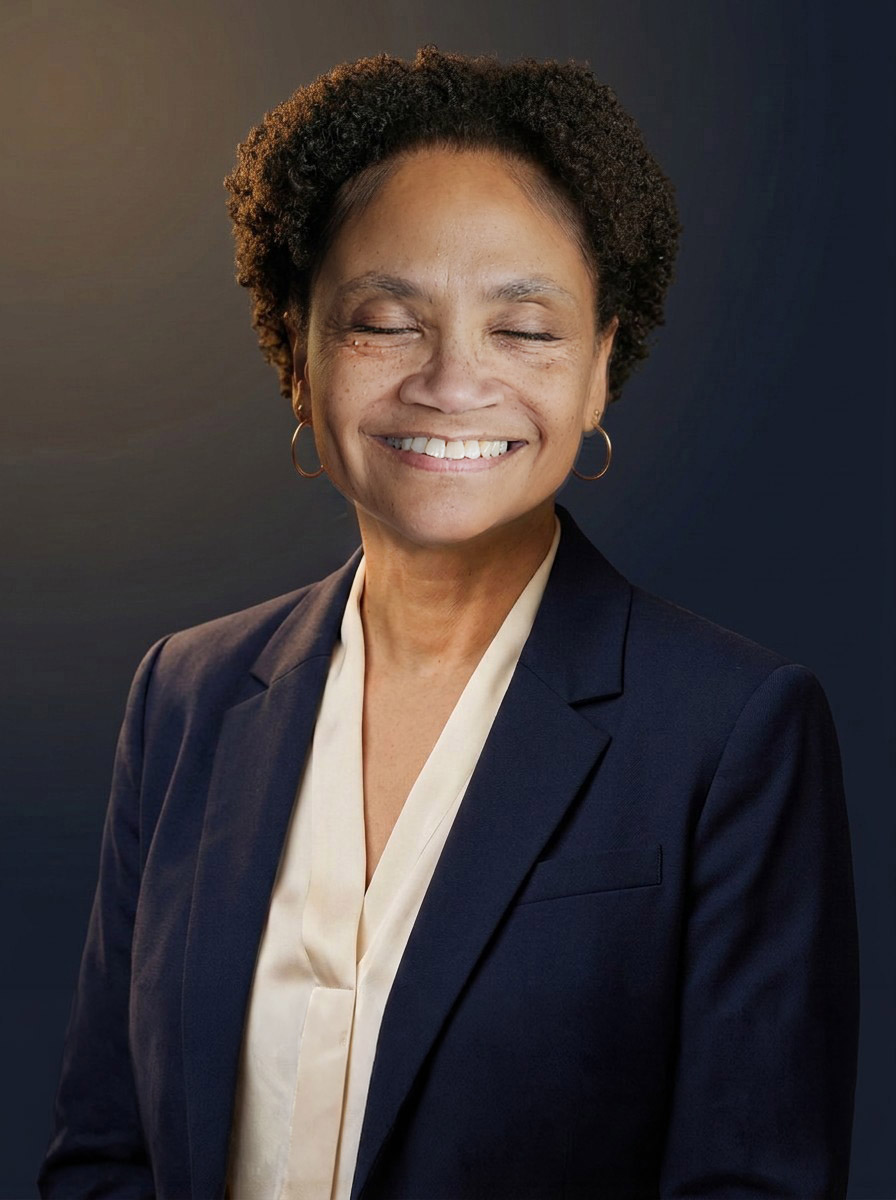
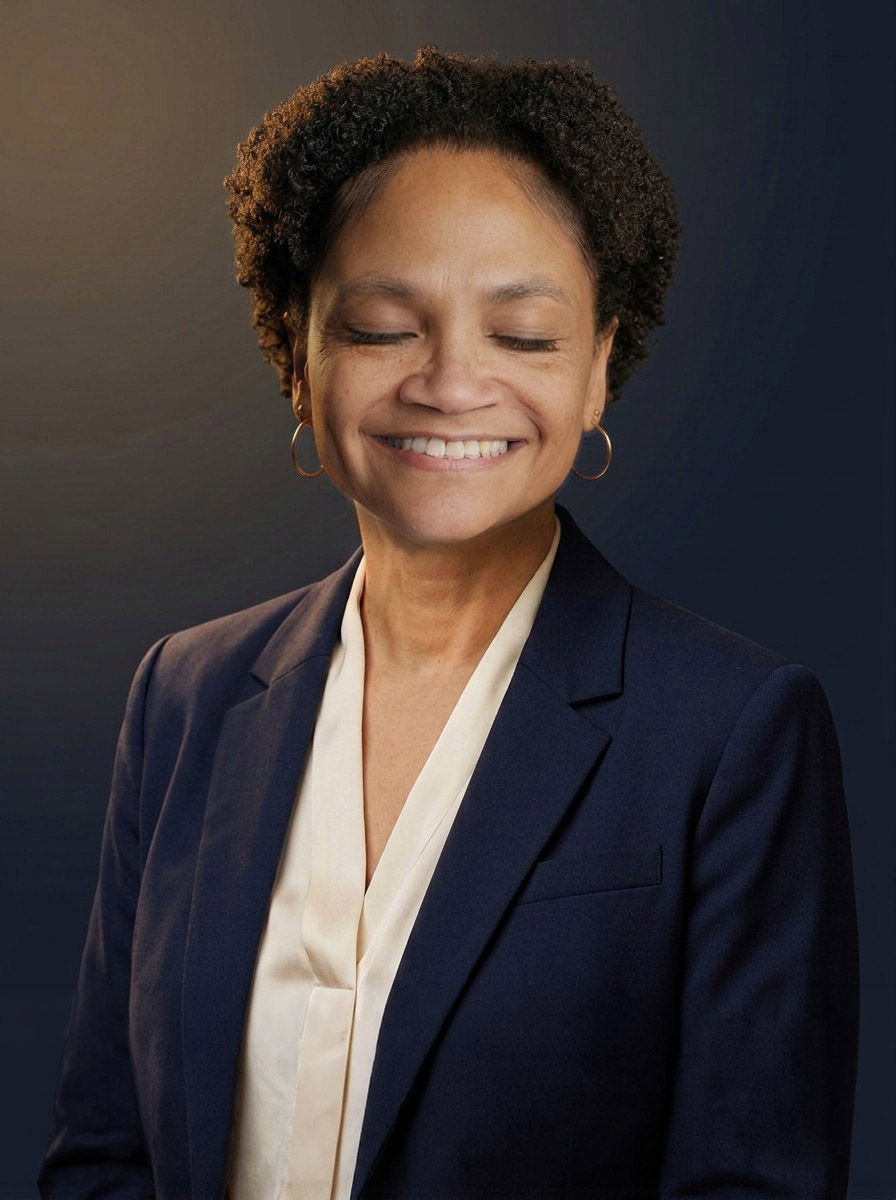
Go live: Joel, Gregory, and Carolyn's agents are public
All three gave explicit approval on 2026-08-23 ("Yes, Joel approved. Thank
you!" / "You have the thumbs up from all of us to go live."). Removed the
private-preview banner and noindex tags, added full site nav, canonical
links, and analytics to all three pages, added clean public URLs
(/joel-king, /gregory-foster, /carolyn-foster) alongside the old /preview/*
links, and linked each of them from their own card on /board. Updated the
consent docs to log the approval while preserving the process that earned
it, since it still governs any future change to their agents. Also swapped
in Carolyn's brightness-corrected portrait pair.

Changed region(s): [[0.3438, 0.2467, 0.6562, 0.4008]]

diff --git a/joel-king-preview.html b/joel-king-preview.html
@@ -3,19 +3,22 @@
 <head>
   <meta charset="UTF-8">
   <meta name="viewport" content="width=device-width, initial-scale=1.0">
-  <meta name="robots" content="noindex, nofollow">
-  <title>Rev. Joel Lawrence King Jr. &middot; Private Preview &middot; Gandhi-King Center</title>
-  <meta name="description" content="Private, unlisted preview. Not for public distribution.">
+  <title>Rev. Joel Lawrence King Jr. &middot; Gandhi-King Center for Nonviolence</title>
+<!-- Google tag (gtag.js) -->
+<script async src="https://www.googletagmanager.com/gtag/js?id=G-PWHY6XC4RP"></script>
+<script>
+  window.dataLayer = window.dataLayer || [];
+  function gtag(){dataLayer.push(arguments);}
+  gtag("js", new Date());
+  gtag("config", "G-PWHY6XC4RP");
+</script>
+  <meta name="description" content="Rev. Joel Lawrence King Jr., President of the Gandhi-King Center and first cousin of Dr. Martin Luther King Jr., in his own words: family oral history, not the textbook version.">
+  <link rel="canonical" href="https://gandhi-king-center-for-nonviolence.org/joel-king">
   <link rel="preconnect" href="https://fonts.googleapis.com">
   <link rel="preconnect" href="https://fonts.gstatic.com" crossorigin>
   <link href="https://fonts.googleapis.com/css2?family=Playfair+Display:wght@500;600;700&family=Crimson+Pro:ital,wght@0,400;0,500;0,600;1,400;1,500&family=Inter:wght@400;500;600&display=swap" rel="stylesheet">
   <link rel="stylesheet" href="/assets/site.css">
   <style>
-    .preview-banner {
-      background: #fdf3e0; border: 1px solid #e3c98a; color: #6b4f10;
-      font-family: 'Inter', sans-serif; font-size: 0.85rem; font-weight: 600;
-      text-align: center; padding: 10px 16px; letter-spacing: 0.02em;
-    }
     .agent-hero { display: grid; grid-template-columns: 280px 1fr; gap: 34px; align-items: center; }
     .agent-portrait {
       position: relative; width: 280px; aspect-ratio: 4 / 5; overflow: hidden;
@@ -52,14 +55,28 @@
 </head>
 <body>
 
-  <div class="preview-banner">PRIVATE PREVIEW &mdash; NOT YET APPROVED FOR PUBLIC USE &mdash; built for Rev. King's own review</div>
-
   <header class="site-header">
     <div class="site-header__inner">
       <a class="site-logo" href="/">
         <span class="site-logo__mark">Gandhi-King Center</span>
         <span class="site-logo__tag">For Nonviolence</span>
       </a>
+      <nav class="site-nav" aria-label="Primary">
+        <a href="/season">Season</a>
+        <a href="/education">Education</a>
+        <a href="/advocacy">Advocacy</a>
+        <a href="/community-building">Community</a>
+        <a href="/outreach">Outreach</a>
+        <a href="/partners">Partners</a>
+        <a href="/archive">Archive</a>
+        <a href="/peace-news">Peace News</a>
+        <a href="/staff">Team</a>
+        <a href="/board" class="is-active">Board</a>
+        <a href="/get-involved">Join</a>
+        <a href="/packages">Packages</a>
+        <a href="/donate" class="nav-donate">Donate</a>
+        <a href="https://emerging-tech-lab.com">ETL Campus</a>
+      </nav>
     </div>
   </header>
 
@@ -101,7 +118,7 @@
         <p class="agent-voicenote" id="agentVoiceNote">He speaks his answers aloud. Turn your sound on.</p>
       </div>
 
-      <p class="agent-disclosure">This is a private, unlisted preview built from Rev. King's own recorded oral history, for his review only. It is not public and not yet approved. Nothing here has been confirmed as his final, approved words.</p>
+      <p class="agent-disclosure">This is Rev. King's own recorded oral history, brought to an interactive conversation, with his knowledge and approval.</p>
 
     </div>
   </section>

diff --git a/carolyn-foster-preview.html b/carolyn-foster-preview.html
@@ -3,19 +3,22 @@
 <head>
   <meta charset="UTF-8">
   <meta name="viewport" content="width=device-width, initial-scale=1.0">
-  <meta name="robots" content="noindex, nofollow">
-  <title>Mrs. Carolyn Foster &middot; Private Preview &middot; Gandhi-King Center</title>
-  <meta name="description" content="Private, unlisted preview. Not for public distribution.">
+  <title>Mrs. Carolyn Foster &middot; Gandhi-King Center for Nonviolence</title>
+<!-- Google tag (gtag.js) -->
+<script async src="https://www.googletagmanager.com/gtag/js?id=G-PWHY6XC4RP"></script>
+<script>
+  window.dataLayer = window.dataLayer || [];
+  function gtag(){dataLayer.push(arguments);}
+  gtag("js", new Date());
+  gtag("config", "G-PWHY6XC4RP");
+</script>
+  <meta name="description" content="Mrs. Carolyn Foster, Executive Director of the Gandhi-King Center, in her own words: her uncle the Tuskegee Airman, her opera-singing mother, and what she has taught her four daughters.">
+  <link rel="canonical" href="https://gandhi-king-center-for-nonviolence.org/carolyn-foster">
   <link rel="preconnect" href="https://fonts.googleapis.com">
   <link rel="preconnect" href="https://fonts.gstatic.com" crossorigin>
   <link href="https://fonts.googleapis.com/css2?family=Playfair+Display:wght@500;600;700&family=Crimson+Pro:ital,wght@0,400;0,500;0,600;1,400;1,500&family=Inter:wght@400;500;600&display=swap" rel="stylesheet">
   <link rel="stylesheet" href="/assets/site.css">
   <style>
-    .preview-banner {
-      background: #fdf3e0; border: 1px solid #e3c98a; color: #6b4f10;
-      font-family: 'Inter', sans-serif; font-size: 0.85rem; font-weight: 600;
-      text-align: center; padding: 10px 16px; letter-spacing: 0.02em;
-    }
     .agent-hero { display: grid; grid-template-columns: 280px 1fr; gap: 34px; align-items: center; }
     .agent-portrait {
       position: relative; width: 280px; aspect-ratio: 4 / 5; overflow: hidden;
@@ -52,14 +55,28 @@
 </head>
 <body>
 
-  <div class="preview-banner">PRIVATE PREVIEW &mdash; NOT YET APPROVED FOR PUBLIC USE &mdash; built for Carolyn's own review</div>
-
   <header class="site-header">
     <div class="site-header__inner">
       <a class="site-logo" href="/">
         <span class="site-logo__mark">Gandhi-King Center</span>
         <span class="site-logo__tag">For Nonviolence</span>
       </a>
+      <nav class="site-nav" aria-label="Primary">
+        <a href="/season">Season</a>
+        <a href="/education">Education</a>
+        <a href="/advocacy">Advocacy</a>
+        <a href="/community-building">Community</a>
+        <a href="/outreach">Outreach</a>
+        <a href="/partners">Partners</a>
+        <a href="/archive">Archive</a>
+        <a href="/peace-news">Peace News</a>
+        <a href="/staff">Team</a>
+        <a href="/board" class="is-active">Board</a>
+        <a href="/get-involved">Join</a>
+        <a href="/packages">Packages</a>
+        <a href="/donate" class="nav-donate">Donate</a>
+        <a href="https://emerging-tech-lab.com">ETL Campus</a>
+      </nav>
     </div>
   </header>
 
@@ -101,7 +118,7 @@
         <p class="agent-voicenote" id="agentVoiceNote">She speaks her answers aloud. Turn your sound on.</p>
       </div>
 
-      <p class="agent-disclosure">This is a private, unlisted preview built from Carolyn's own recorded oral history, for her review only. It is not public and not yet approved. Nothing here has been confirmed as her final, approved words.</p>
+      <p class="agent-disclosure">This is Carolyn's own recorded oral history, brought to an interactive conversation, with her knowledge and approval.</p>
 
     </div>
   </section>

diff --git a/gregory-foster-preview.html b/gregory-foster-preview.html
@@ -3,19 +3,22 @@
 <head>
   <meta charset="UTF-8">
   <meta name="viewport" content="width=device-width, initial-scale=1.0">
-  <meta name="robots" content="noindex, nofollow">
-  <title>Mr. Gregory Foster &middot; Private Preview &middot; Gandhi-King Center</title>
-  <meta name="description" content="Private, unlisted preview. Not for public distribution.">
+  <title>Mr. Gregory Foster &middot; Gandhi-King Center for Nonviolence</title>
+<!-- Google tag (gtag.js) -->
+<script async src="https://www.googletagmanager.com/gtag/js?id=G-PWHY6XC4RP"></script>
+<script>
+  window.dataLayer = window.dataLayer || [];
+  function gtag(){dataLayer.push(arguments);}
+  gtag("js", new Date());
+  gtag("config", "G-PWHY6XC4RP");
+</script>
+  <meta name="description" content="Mr. Gregory Foster, Vice Chair of the Gandhi-King Center and cousin of Coretta Scott King, in his own words: family oral history, not the textbook version.">
+  <link rel="canonical" href="https://gandhi-king-center-for-nonviolence.org/gregory-foster">
   <link rel="preconnect" href="https://fonts.googleapis.com">
   <link rel="preconnect" href="https://fonts.gstatic.com" crossorigin>
   <link href="https://fonts.googleapis.com/css2?family=Playfair+Display:wght@500;600;700&family=Crimson+Pro:ital,wght@0,400;0,500;0,600;1,400;1,500&family=Inter:wght@400;500;600&display=swap" rel="stylesheet">
   <link rel="stylesheet" href="/assets/site.css">
   <style>
-    .preview-banner {
-      background: #fdf3e0; border: 1px solid #e3c98a; color: #6b4f10;
-      font-family: 'Inter', sans-serif; font-size: 0.85rem; font-weight: 600;
-      text-align: center; padding: 10px 16px; letter-spacing: 0.02em;
-    }
     .agent-hero { display: grid; grid-template-columns: 280px 1fr; gap: 34px; align-items: center; }
     .agent-portrait {
       position: relative; width: 280px; aspect-ratio: 4 / 5; overflow: hidden;
@@ -52,14 +55,28 @@
 </head>
 <body>
 
-  <div class="preview-banner">PRIVATE PREVIEW &mdash; NOT YET APPROVED FOR PUBLIC USE &mdash; built for Gregory's own review</div>
-
   <header class="site-header">
     <div class="site-header__inner">
       <a class="site-logo" href="/">
         <span class="site-logo__mark">Gandhi-King Center</span>
         <span class="site-logo__tag">For Nonviolence</span>
       </a>
+      <nav class="site-nav" aria-label="Primary">
+        <a href="/season">Season</a>
+        <a href="/education">Education</a>
+        <a href="/advocacy">Advocacy</a>
+        <a href="/community-building">Community</a>
+        <a href="/outreach">Outreach</a>
+        <a href="/partners">Partners</a>
+        <a href="/archive">Archive</a>
+        <a href="/peace-news">Peace News</a>
+        <a href="/staff">Team</a>
+        <a href="/board" class="is-active">Board</a>
+        <a href="/get-involved">Join</a>
+        <a href="/packages">Packages</a>
+        <a href="/donate" class="nav-donate">Donate</a>
+        <a href="https://emerging-tech-lab.com">ETL Campus</a>
+      </nav>
     </div>
   </header>
 
@@ -101,7 +118,7 @@
         <p class="agent-voicenote" id="agentVoiceNote">He speaks his answers aloud. Turn your sound on.</p>
       </div>
 
-      <p class="agent-disclosure">This is a private, unlisted preview built from Gregory's own recorded oral history, for his review only. It is not public and not yet approved. Nothing here has been confirmed as his final, approved words.</p>
+      <p class="agent-disclosure">This is Gregory's own recorded oral history, brought to an interactive conversation, with his knowledge and approval.</p>
 
     </div>
   </section>

diff --git a/board.html b/board.html
@@ -68,6 +68,7 @@
             <p>Reverend Joel L. King Jr. is the first cousin of Dr. Martin Luther King Jr. — their fathers, Rev. Joel King Sr. and Martin Luther King Sr., were brothers, sixteen years apart in age, and it was Joel's father who grew up in the King household. Joel does not speak about Dr. King from books. He speaks about him from family, passed down.</p>
             <p>Forty years in Christian ministry have given Joel a pastor's instincts for nonviolence as a daily practice, not a slogan. He has served on the Ohio Dr. Martin Luther King Jr. Holiday Commission since its founding in 1985, represents Ohio on the National MLK Advisory Committee in Atlanta, and serves as chaplain for the Gahanna Police Department. He carries his cousin's work forward not as inheritance, but as assignment.</p>
             <em>"I firmly believe in the power of faith, love, and nonviolence to transform individuals and communities."</em>
+            <p style="margin-top:14px;"><a href="/joel-king">Talk with Rev. King &rarr;</a></p>
           </div>
         </article>
 
@@ -90,6 +91,7 @@
           <div class="board-member__bio">
             <p>Gregory Foster is the cousin of Coretta Scott King and serves as Vice Chair of the Gandhi-King Center. A career social worker, he has spent his working life inside the agencies that exist for the people other agencies stopped seeing. He came to the center the way most of its board members came: through a relationship that already existed.</p>
             <em>"Everyone has the potential to be a peacemaker, regardless of their background."</em>
+            <p style="margin-top:14px;"><a href="/gregory-foster">Talk with Gregory &rarr;</a></p>
           </div>
         </article>
 
@@ -102,6 +104,7 @@
             <p>Carolyn Foster is the Executive Director of the Gandhi-King Center. She is cousin through marriage to Coretta Scott King and has spent twenty-eight years inside the public school system supporting children and families, with additional work as a suicide crisis counselor. Her career has been a long lesson in what it costs people when systems fail them, and what it takes to hold the door open anyway.</p>
             <p>She and her husband Gregory share a deep faith and a shared call.</p>
             <em>"Everyone has the potential to succeed regardless of their background."</em>
+            <p style="margin-top:14px;"><a href="/carolyn-foster">Talk with Carolyn &rarr;</a></p>
           </div>
         </article>
 

diff --git a/gandhi-king agents/board-agents/README-preview-and-consent.md b/gandhi-king agents/board-agents/README-preview-and-consent.md
@@ -1,8 +1,16 @@
 # Board-member agent previews — approach, consent, and control
 
-Private previews so Rev. Joel King and Gregory Foster can SEE and HEAR what "being an AI
-agent" would mean before they decide. Nothing here is public. Nothing goes live without
-their explicit yes.
+Private previews so Rev. Joel King, Gregory Foster, and Carolyn Foster could SEE and HEAR what
+"being an AI agent" would mean before they decided. **Update, 2026-08-23: all three gave their
+explicit yes.** Joel's own message: "Yes, Joel approved. Thank you!" Gregory's, for all three:
+"You have the thumbs up from all of us to go live." Their three agents are now live and public at
+`/joel-king`, `/gregory-foster`, and `/carolyn-foster`, linked from `/board`. The consent process
+below is preserved as-written since it is exactly what earned that yes, and it still governs
+anything that changes about their agents going forward (a script change, a new voice recording,
+etc. still needs their sign-off, same as the first launch did). Baroness Harris and Tushar Gandhi
+have not been asked yet and remain unlisted/preview-only. Per Dr. Oroszi's original sequencing,
+that ask was always meant to come after Joel/Gregory/Carolyn's own launch, which has now
+happened — see `project-king-family-agents` memory for the full plan.
 
 ## The idea (consent-forward)
 
@@ -36,23 +44,18 @@ near-match so you can feel it; if you say yes, we tune it to you, or record you 
 
 ### Voice policy, per person (Dr. Oroszi's line — do not cross)
 
-- **Rev. Joel King:** voice may be cloned ONLY after his own yes. His speaking voice is already
-  public, but his consent is still the green light. A direct recording is preferred over found clips.
-  **Status (2026-08-22):** real ElevenLabs voice ID captured, per Dr. Oroszi and his own recorded
-  consent (voice-capture-kit.md) — `P31dcm4p9fCpK43qjkKw`. Live wiring (a `gk-joel-king.js` /
-  `gk-joel-king-voice.js` pair, on the pattern of `gk-clara.js` / `gk-clara-voice.js`) is not yet
-  built. He still approves every line his agent says before anything goes live.
-- **Mr. Gregory Foster:** same. Clone only after his yes. Direct recording preferred.
-  **Status (2026-08-22):** real ElevenLabs voice ID captured, per Dr. Oroszi and his own recorded
-  consent (voice-capture-kit.md) — `HJw10OoM7RieWRX4efTj`. Live wiring (a `gk-gregory-foster.js` /
-  `gk-gregory-foster-voice.js` pair, on the pattern of `gk-clara.js` / `gk-clara-voice.js`) is not
-  yet built. He still approves every line his agent says before anything goes live.
-- **Mrs. Carolyn Foster:** same as Joel and Gregory. Clone only after her yes. Direct recording
-  preferred. **Status (2026-08-22):** real ElevenLabs voice ID captured, per Dr. Oroszi and her
-  own recorded consent (voice-capture-kit.md) — `vo2nhpVXv9lZ7y1RwIKK`. Live wiring (a
-  `gk-carolyn-foster.js` / `gk-carolyn-foster-voice.js` pair, on the pattern of `gk-clara.js` /
-  `gk-clara-voice.js`) is not yet built. She still approves every line her agent says before
-  anything goes live.
+- **Rev. Joel King:** voice may be cloned ONLY after his own yes. **Status:** real ElevenLabs
+  voice ID `P31dcm4p9fCpK43qjkKw` captured 2026-08-22 with his recorded consent
+  (voice-capture-kit.md); `gk-joel-king.js` / `gk-joel-king-voice.js` built and live since
+  2026-08-23, after his explicit approval to launch.
+- **Mr. Gregory Foster:** same. **Status:** real ElevenLabs voice ID `HJw10OoM7RieWRX4efTj`
+  captured 2026-08-22 with his recorded consent; `gk-gregory-foster.js` /
+  `gk-gregory-foster-voice.js` built and live since 2026-08-23, after his explicit approval to
+  launch.
+- **Mrs. Carolyn Foster:** same. **Status:** real ElevenLabs voice ID `vo2nhpVXv9lZ7y1RwIKK`
+  captured 2026-08-22 with her recorded consent; `gk-carolyn-foster.js` /
+  `gk-carolyn-foster-voice.js` built and live since 2026-08-23, after her explicit approval to
+  launch.
 - **The Baroness Harris:** NEVER cloned. Stand-in voice only. If she ever wants her own voice,
   it comes only from a recording she gives with explicit consent. Sitting legislator: strictest.
 - **Mr. Tushar Gandhi:** NEVER cloned. Stand-in only. Handled asynchronously; his own voice only
@@ -65,14 +68,22 @@ permission. The person's yes is.
 
 - **Approval:** they approve every line their agent can say. Nothing ships unapproved.
 - **No politics, no invented words:** the agent only states published facts and their own quotes.
-- **Their voice, their choice:** stand-in until they approve or record their own.
+- **Their voice, their choice:** cloned only after their own recorded consent (Joel, Gregory,
+  Carolyn all gave it — see voice-capture-kit.md).
 - **Pause or pull, anytime:** one word from them and the agent goes dark, permanently if they wish.
-- **Private until yes:** the preview is unlisted; the public never sees it without consent.
+  This still applies now that they are live, not just during the preview stage.
+- **Public since their yes:** Joel, Gregory, and Carolyn's agents went public 2026-08-23, after
+  each gave explicit approval. Baroness Harris and Tushar Gandhi's would-be agents stay unlisted
+  until the same standard is met for them.
 
-## For Code (hosting the preview)
+## For Code (hosting these agents)
 
-- Publish each preview page UNLISTED and noindexed (robots noindex, not linked in nav, not in
-  the sitemap). A direct link only, to share in the meeting.
+- Joel/Gregory/Carolyn: public pages (`/joel-king`, `/gregory-foster`, `/carolyn-foster`), linked
+  from `/board`, indexed normally. Any future board-member agent starts UNLISTED and noindexed
+  (robots noindex, not linked in nav) until that person gives the same explicit yes — a direct
+  link only, to share for their own review first.
 - Wire the concierge from the PREVIEW persona file, with the hard rules above as system limits.
-- Use the stand-in TTS voice; keep a clear on-screen "Preview — not yet approved" label.
-- Easy kill switch: a single flag that disables the page.
+- Real cloned voice only after the person's own recorded consent; a stand-in voice, clearly
+  labeled, until then.
+- Easy kill switch: a single flag (`ENABLED` at the top of each chat function) that disables the
+  agent instantly on redeploy.

diff --git a/gandhi-king agents/board-agents/carolyn-foster-PREVIEW.md b/gandhi-king agents/board-agents/carolyn-foster-PREVIEW.md
@@ -1,9 +1,10 @@
-# PREVIEW — Mrs. Carolyn Foster  (NOT PUBLIC · CONSENT PENDING FOR LAUNCH)
+# Mrs. Carolyn Foster  (LIVE — approved for public launch 2026-08-23)
 
-Private preview for Carolyn to review. Unlisted, noindexed, kill-switchable. Built from her
-published board bio plus her own recorded oral history, given with her consent on 2026-08-22.
-See README-preview-and-consent.md for voice, control, hosting. New file — she did not have a
-preview persona before this.
+Built from her published board bio plus her own recorded oral history, given with her consent on
+2026-08-22. Approved to go public on 2026-08-23 ("thumbs up from all of us to go live," relayed by
+Gregory on her behalf). Live at `/carolyn-foster`, linked from `/board`. Still kill-switchable
+(see README) if she ever wants it pulled. See README-preview-and-consent.md for voice, control,
+hosting.
 
 **Portrait:** `assets/images/carolyn-foster-preview.jpg` — AI-generated studio scene with her own
 real face composited in (per Dr. Oroszi), not a synthetic likeness. Distinct from her real board
@@ -146,6 +147,6 @@ and is cleared for use once the agent is built and Carolyn has approved what it 
 ## Hard rules (real living person)
 
 Grounded in her own recorded words and her published bio — nothing invented beyond that. No
-political comment, no words she has not approved. Real voice ID captured with her consent (see
-Voice, above); public launch and exact script still need her sign-off line by line. Unlisted
-until she says yes. Full rules in the README.
+political comment, no words she has not approved. Approved for public launch 2026-08-23. She can
+still pause or pull this at any time (see README's kill-switch rules) if anything she hears
+doesn't sit right with her after the fact.

diff --git a/gandhi-king agents/board-agents/joel-king-PREVIEW.md b/gandhi-king agents/board-agents/joel-king-PREVIEW.md
@@ -1,8 +1,9 @@
-# PREVIEW — Rev. Joel Lawrence King Jr.  (NOT PUBLIC · CONSENT PENDING FOR LAUNCH)
+# Rev. Joel Lawrence King Jr.  (LIVE — approved for public launch 2026-08-23)
 
-Private preview for Rev. King to review. Unlisted, noindexed, kill-switchable. Built from his
-published board bio plus his own recorded oral history, given with his consent on 2026-08-22.
-See README-preview-and-consent.md for voice, control, hosting.
+Built from his published board bio plus his own recorded oral history, given with his consent on
+2026-08-22. Joel gave his approval to go public on 2026-08-23 ("Yes, Joel approved. Thank you!").
+Live at `/joel-king`, linked from `/board`. Still kill-switchable (see README) if he ever wants it
+pulled. See README-preview-and-consent.md for voice, control, hosting.
 
 **Portrait:** `assets/images/joel-king-preview.jpg` — AI-generated studio scene with his own real
 face composited in (per Dr. Oroszi), not a synthetic likeness. Distinct from his real board photo
@@ -192,6 +193,6 @@ Sample (DRAFT placeholder for Joel's review, NOT his words):
 ## Hard rules (real living person)
 
 Grounded in his own recorded words and his published bio — nothing invented beyond that. No
-political comment, no private life beyond what he recorded, no words he has not approved. Real
-voice ID captured with his consent (see Voice, above); public launch and exact script still need
-his sign-off line by line. Unlisted until he says yes. Full rules in the README.
+political comment, no private life beyond what he recorded, no words he has not approved. Approved
+for public launch 2026-08-23. He can still pause or pull this at any time (see README's kill-switch
+rules) if anything he hears doesn't sit right with him after the fact.

diff --git a/gandhi-king agents/board-agents/gregory-foster-PREVIEW.md b/gandhi-king agents/board-agents/gregory-foster-PREVIEW.md
@@ -1,8 +1,9 @@
-# PREVIEW — Mr. Gregory Foster  (NOT PUBLIC · CONSENT PENDING FOR LAUNCH)
+# Mr. Gregory Foster  (LIVE — approved for public launch 2026-08-23)
 
-Private preview for Gregory to review. Unlisted, noindexed, kill-switchable. Built from his
-published board bio plus his own recorded oral history, given with his consent on 2026-08-22.
-See README-preview-and-consent.md for voice, control, hosting.
+Built from his published board bio plus his own recorded oral history, given with his consent on
+2026-08-22. Approved to go public on 2026-08-23 ("You have the thumbs up from all of us to go
+live"). Live at `/gregory-foster`, linked from `/board`. Still kill-switchable (see README) if he
+ever wants it pulled. See README-preview-and-consent.md for voice, control, hosting.
 
 **Portrait:** `assets/images/gregory-foster-preview.jpg` — AI-generated studio scene with his own
 real face composited in (per Dr. Oroszi), not a synthetic likeness. Distinct from his real board
@@ -167,6 +168,6 @@ and is cleared for use once the agent is built and Gregory has approved what it 
 ## Hard rules (real living person)
 
 Grounded in his own recorded words and his published bio — nothing invented beyond that. No
-political comment, no words he has not approved. Real voice ID captured with his consent (see
-Voice, above); public launch and exact script still need his sign-off line by line. Unlisted
-until he says yes. Full rules in the README.
+political comment, no words he has not approved. Approved for public launch 2026-08-23. He can
+still pause or pull this at any time (see README's kill-switch rules) if anything he hears doesn't
+sit right with him after the fact.
